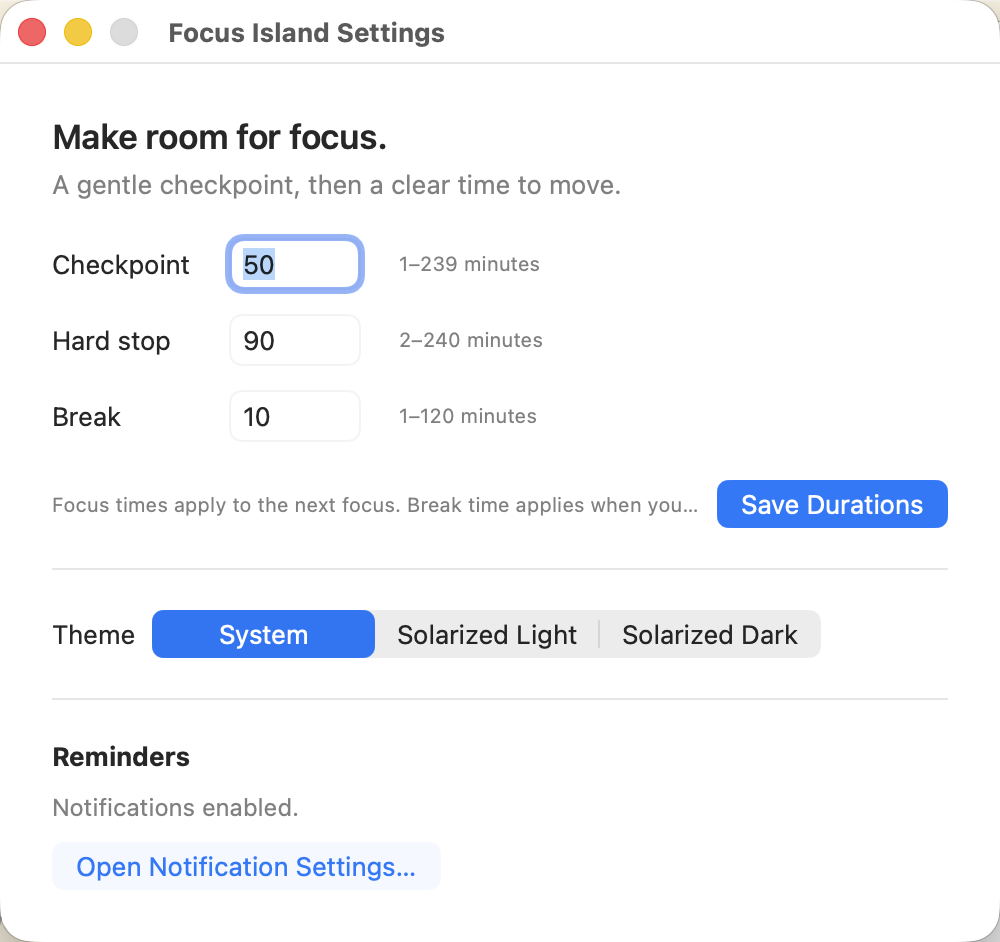
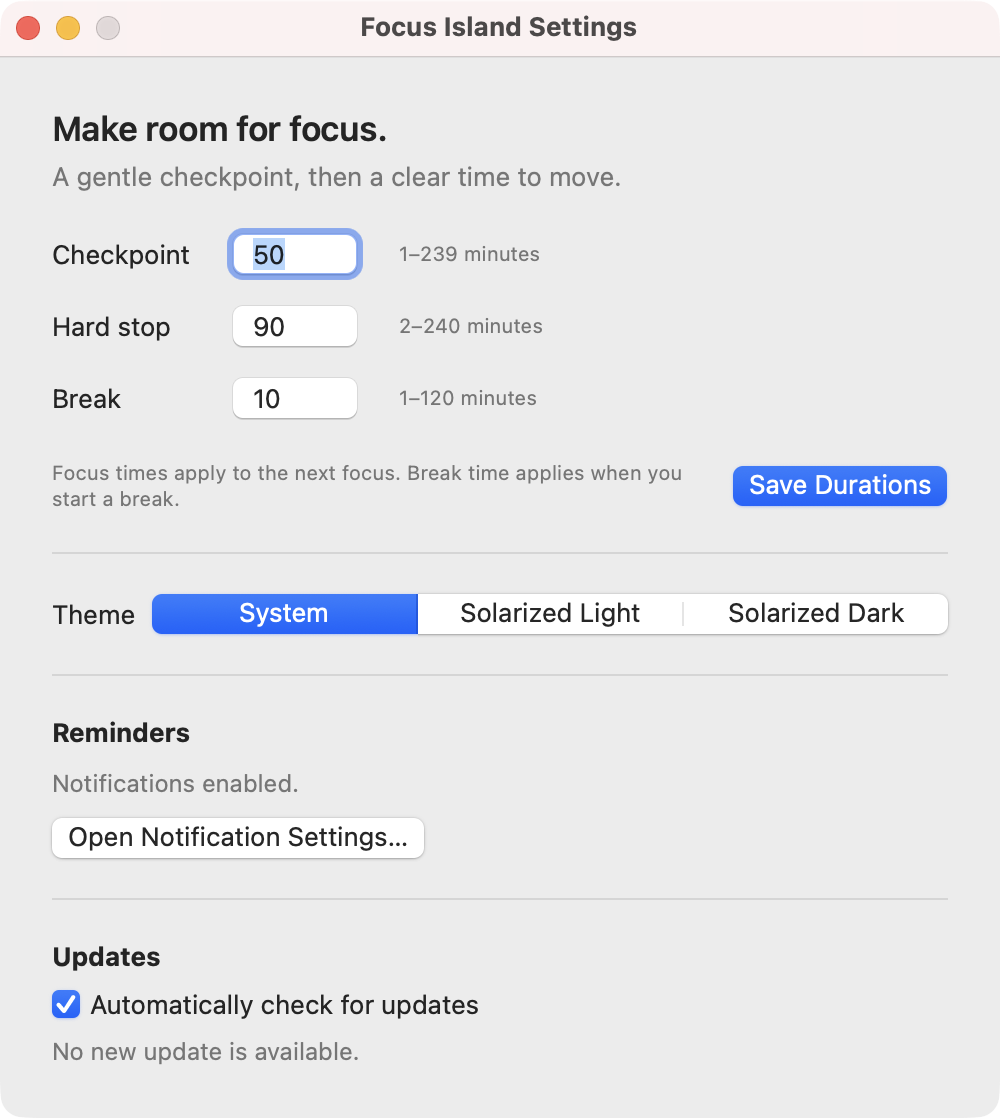
Document verified GitHub updates and polish contributor and QA guidance

diff --git a/scripts/qa-visibility.py b/scripts/qa-visibility.py
@@ -6,6 +6,7 @@ or DEBUG builds and never changes the timer or preferences.
 """
 import importlib.util
 import json
+import re
 import subprocess
 import time
 from pathlib import Path
@@ -45,10 +46,21 @@ def record(name, expected):
     (OUT / f"{name}.json").write_text(json.dumps({"fixtureFullscreen": fullscreen(), "islandOnScreen": visible(), "windows": rows}, indent=2))
     print(f"PASS {name}: islandOnScreen={expected}", flush=True)
 
+def toggle_fullscreen():
+    subprocess.run(["open", str(ROOT / ".build/FullscreenFixture.app")], check=True)
+    settle(lambda: subprocess.check_output(["osascript", "-e", 'tell application "System Events" to get name of first application process whose frontmost is true'], text=True).strip() == "FullscreenFixture")
+    # AXPress can report success without entering a new Space. Drive the real
+    # button with a mouse click, then let the caller verify AXFullScreen.
+    control = q.tool("inspect", FIXTURE, "Toggle Full Screen")
+    match = re.search(r"frame=\{\{([\d.-]+), ([\d.-]+)\}, \{([\d.-]+), ([\d.-]+)\}\}", control)
+    assert match, control
+    x, y, width, height = map(float, match.groups())
+    q.tool("click", str(x + width / 2), str(y + height / 2))
+
 subprocess.run(["open", str(ROOT / ".build/FullscreenFixture.app")], check=True)
 time.sleep(.5)
 if fullscreen() is True:
-    q.tool("press", FIXTURE, "Toggle Full Screen")
+    toggle_fullscreen()
 settle(lambda: fullscreen() is False)
 q.tool("press", FIXTURE, "Normal Window")
 q.tool("move", "1200", "400")
@@ -63,7 +75,7 @@ record("desktop-maximized-hover", True)
 q.tool("move", "1200", "400")
 
 for index in range(2):
-    q.tool("press", FIXTURE, "Toggle Full Screen")
+    toggle_fullscreen()
     settle(lambda: fullscreen() is True)
     q.tool("move", "1200", "400")
     time.sleep(.5)
@@ -84,7 +96,7 @@ for index in range(2):
     q.tool("click", "500", "450")
     time.sleep(.4)
     assert "role=AXPopover" not in q.tool("tree", q.APP, "7"), "full-screen click-away left popup open"
-    q.tool("press", FIXTURE, "Toggle Full Screen")
+    toggle_fullscreen()
     settle(lambda: fullscreen() is False)
     record(f"desktop-restored-{index}", True)
 

diff --git a/docs/update-qa.md b/docs/update-qa.md
@@ -1,0 +1,32 @@
+# Release and updater verification
+
+Verified September 21, 2026 on a notched Apple Silicon Mac running macOS 26.5.1.
+
+## Automated checks
+
+- [CI for build 1002](https://github.com/zeapsu/FocusIsland/actions/runs/35670039452) passed: 109 portable assertions in seven groups, 18 XCTest tests with zero failures, universal arm64/x86_64 packaging, and bundle validation.
+- [Release workflow](https://github.com/zeapsu/FocusIsland/actions/runs/35670191686) passed: restored the tested bundle, signed the archive and appcast, verified both signatures, published complete assets, and checked the downloaded public bytes against the signed originals.
+- Local debug/release builds and portable checks passed. Sparkle's verifier accepted the original archive/feed and rejected separately altered copies of each.
+- Bundle validation checks the application identifier, version/build, tracked public key, signed-feed requirement, verification before extraction, disabled profiling, framework search path, code signature, and both architectures for every executable in CI.
+- The first hosted build caught an ambiguous CGFloat/Double conversion under the runner's Swift compiler. An explicit conversion fixed it; the failed build published no release.
+
+## Native update test
+
+A real installed build 1000 checked the public GitHub feed and updated to build 1002 through Sparkle's native controls. No test feed, replacement installer, or QA timer flags were used.
+
+1. The automatic first check showed the tray update indicator and `Update to v1.1.0 (1002)…` without presenting a modal prompt.
+2. The menu opened directly below its status item and showed the active checkpoint session alongside the update.
+3. `Remind Me Later` dismissed Sparkle's prompt while preserving the tray indicator and update action.
+4. `Install Update`, followed by `Install and Relaunch`, downloaded the published archive and relaunched the application in `/Applications/Focus Island.app` at build 1002.
+5. The original session ID, start/checkpoint/hard-stop timestamps, and timer/theme settings matched exactly after installation. The session was still at its checkpoint. One app process was running.
+6. The installed universal bundle passed strict code-signature and configuration validation. A subsequent manual check displayed `You’re up to date!` and cleared the availability indicator.
+7. Disabling automatic checks in Settings persisted the change. Re-enabling restored the original enabled setting. Notification permission remained enabled.
+8. The installed release passed popup dismissal checks and desktop/maximized/full-screen visibility, hover, menu access, and two full-screen round trips without changing the session. Two earlier harness attempts did not enter full screen despite successful AXPress return values; those are not passing evidence. The completed run used real mouse clicks for the fixture’s full-screen button and independently verified the Space and foreground app.
+
+The test used native Accessibility inspection, actual mouse clicks, application-window screenshots, and direct reads of the installed bundle and persisted state. Local evidence is under ignored `qa/updates/`; private session records are not published.
+
+## Scope and limits
+
+The separate static review found no remaining material issue in the updater, signing flow, release permissions, or session-preserving termination. Runtime checks complement that review.
+
+Only one physical Apple Silicon Mac was available. Intel slices were verified in the distributed bundle but were not executed on Intel hardware. The releases are ad-hoc signed and Sparkle-authenticated; they are not Developer ID signed or notarized. The first-download Gatekeeper path on a clean Mac remains part of [issue #2](https://github.com/zeapsu/FocusIsland/issues/2).

diff --git a/docs/qa-environment.md b/docs/qa-environment.md
@@ -73,7 +73,16 @@ PY
 open .build/FullscreenFixture.app
 ```
 
-Launch the timer debug build with the QA flags documented in the README, save 5/10/3 durations, then run `python3 scripts/qa-placement.py`. This script's pointer coordinates and compact-height assertion target the tested 1710×1107 display with a 33-point notch band. Adapt those values when running it on another display. It checks native full-screen state through Accessibility, allows the temporary absence of the window during Space animation, and asserts the island's actual visibility. `python3 scripts/qa-lifecycle.py` then exercises the regular lifecycle. Neither script changes privacy permissions.
+Quit the production app first, then launch the debug bundle with isolated timer preferences and diagnostic output:
+
+```sh
+./scripts/build-app.sh debug
+open "dist/Focus Island.app" --args --qa-speed --qa-artifacts
+```
+
+The speed flag uses the `local.focusisland.qa` preference domain and runs timers at 20× speed; updater checks are disabled. Set checkpoint/hard stop/break to 5/10/3 in Settings for 15/30/9-second test deadlines. Both flags are compiled out of release builds. After QA, quit this copy and reopen the installed production app to reconstruct its original absolute deadlines.
+
+Run `python3 scripts/qa-placement.py` after saving those QA durations. This script's pointer coordinates and compact-height assertion target the tested 1710×1107 display with a 33-point notch band. Adapt those values when running it on another display. It checks native full-screen state through Accessibility, allows the temporary absence of the window during Space animation, and asserts the island's actual visibility. `python3 scripts/qa-lifecycle.py` then exercises the regular lifecycle. Neither script changes privacy permissions.
 
 `python3 scripts/qa-hover.py` works with either debug or release builds on the same display. Start idle with the fixture in its normal window. It checks quick pointer flybys, movement through the expanded controls, re-entry during collapse, actual Start/Cancel mouse clicks, transparent canvas boundaries, outward motion of the header elements, and real clicks on the island menu shortcut. The native canvas remains 428×159 points throughout; the visible surface morphs inside it. Native screenshots and test output are saved under `qa/hover/`.
 

diff --git a/docs/review.md b/docs/review.md
@@ -2,6 +2,10 @@
 
 Review date: September 21, 2026.
 
+## GitHub releases and Sparkle updates
+
+A separate reviewer inspected the updater, session-preserving termination, application packaging, GitHub workflows, and credential handling. Initial findings led to preserving bundle permissions/symlinks in ZIP artifacts, checking universal helper architectures and the embedded signing key, scoping the private key to the signing step, serializing releases, checking increasing build numbers, and verifying both feed and archive signatures. The final static review found no remaining material issue. Published downloads and a real Sparkle installation were then exercised; see [runtime verification](update-qa.md).
+
 ## Notification permission action
 
 A separate reviewer inspected the already-denied permission path, asynchronous status refresh, scheduling, errors, and accessibility. No blocker, high, or medium findings. The action now requests authorization only for `notDetermined`, routes existing decisions to the app's System Settings page, and disables repeated clicks while checking. Returning to the app refreshes permission. A status change resynchronizes the existing notice plan through the serialized scheduler without changing timer timestamps. Request errors remain visible. A stable identifier was added to the menu Settings button so native QA distinguishes it from Open Notification Settings.

diff --git a/README.md b/README.md
@@ -8,9 +8,9 @@
 
 A small, native macOS focus timer that lives in the menu bar and grows out of the MacBook notch when you need it. It asks at a checkpoint without stopping your work, prompts you to move at the hard stop, and times the break that follows.
 
-![Focus Island expanding from the notch](docs/assets/hero.png)
+<p align="center"><img src="docs/assets/hero.png" alt="Focus Island expanded around the notch" width="640"></p>
 
-![Hover interaction: the compact notch shell widens into controls](docs/assets/hover.gif)
+<p align="center"><img src="docs/assets/hover.gif" alt="A real hover recording: the compact notch shell expands into controls" width="640"></p>
 
 ## What it does
 
@@ -21,7 +21,7 @@ A small, native macOS focus timer that lives in the menu bar and grows out of th
 - Offers System, Solarized Light, and Solarized Dark appearances.
 - Uses native notifications when allowed; declining permission never prevents the timer from working.
 
-![Settings with duration controls and theme picker](docs/assets/settings.png)
+<p align="center"><img src="docs/assets/settings.png" alt="Settings with durations, themes, notifications, and automatic updates" width="500"></p>
 
 ## Install
 

diff --git a/docs/qa-report.md b/docs/qa-report.md
@@ -1,5 +1,9 @@
 # Verification report
 
+## GitHub releases and updates
+
+The real GitHub release pipeline and native Sparkle update from build 1000 to 1002 passed, preserving the active session and preferences. CI passed 109 portable assertions and 18 XCTest tests. See the [release and updater verification](update-qa.md) for the executed steps, workflow links, and distribution limits.
+
 ## Current: notification permission action
 
 The installed app reported notification permission denied but still offered Enable Notifications. An AX activation of that control left the same denied state and label. The implementation repeated `requestAuthorization` after a recorded decision, which [Apple documents as not prompting again](https://developer.apple.com/documentation/usernotifications/asking-permission-to-use-notifications). The button now requests only an undecided permission; otherwise it opens Focus Island's page in System Settings. Returning to the app refreshes permission and updates the current reminder plan without changing timer deadlines.

diff --git a/CONTRIBUTING.md b/CONTRIBUTING.md
@@ -50,4 +50,4 @@ Explain the user-visible change, the timer/window behavior it affects, and the c
 
 ## Security and privacy
 
-Do not put credentials, signing keys, update private keys, personal timer data, or captured desktop material in the repository. Report a security issue privately to the maintainers rather than publishing sensitive details in a public issue.
+Do not put credentials, signing keys, update private keys, personal timer data, or captured desktop material in the repository. Use GitHub’s [private vulnerability reporting](https://github.com/zeapsu/FocusIsland/security/advisories/new) for security issues; do not publish sensitive details in a public issue.
